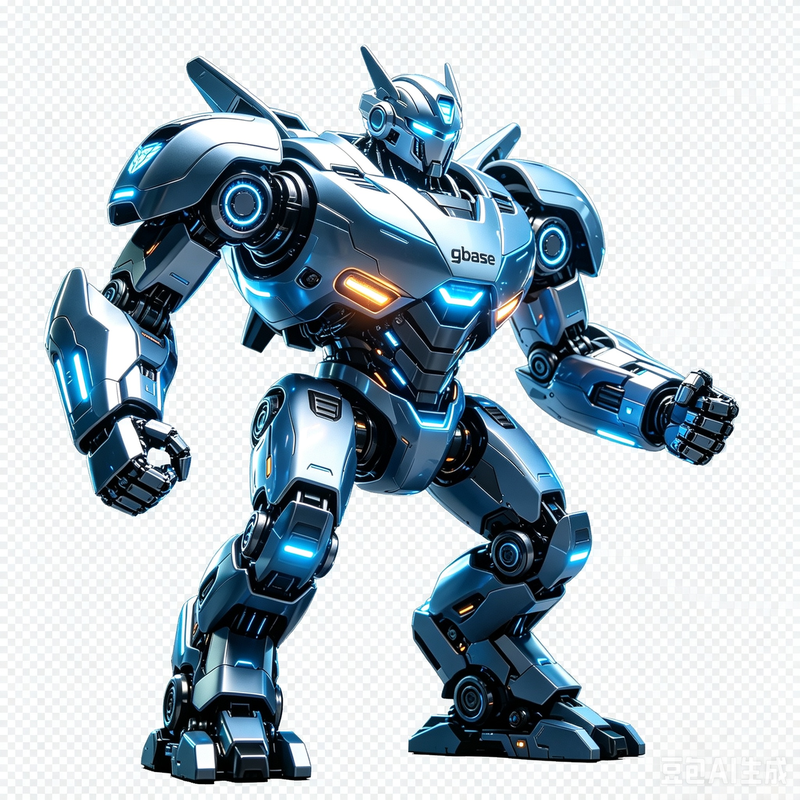
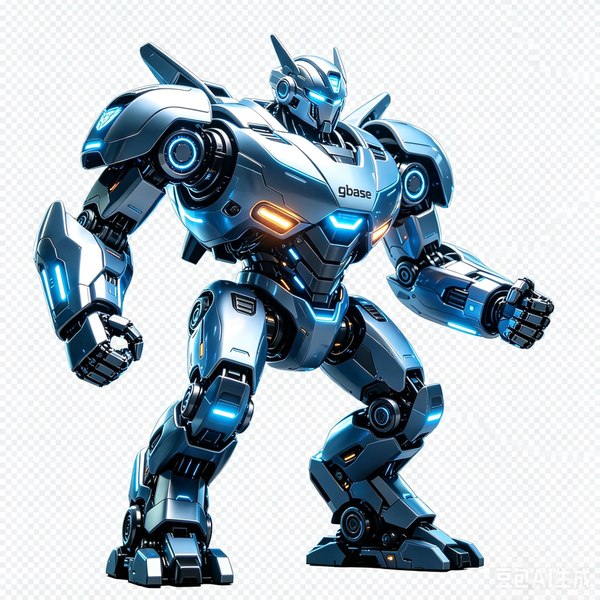
docs: replace screenshot with smaller JPG (104KB)

Changed region(s): [[0.57, 0.3, 0.6, 0.33], [0.42, 0.21, 0.45, 0.24]]

diff --git a/README.md b/README.md
@@ -5,7 +5,7 @@
 [![License: MIT](https://img.shields.io/badge/License-MIT-yellow.svg)](https://opensource.org/licenses/MIT)
 [![PRs Welcome](https://img.shields.io/badge/PRs-welcome-brightgreen.svg)](http://makeapullrequest.com)
 
-![Opprime World Key 概览](assets/opprime-world-key-screenshot.png)
+![Opprime World Key 概览](assets/opprime-world-key-screenshot.jpg)
 
 ---
 